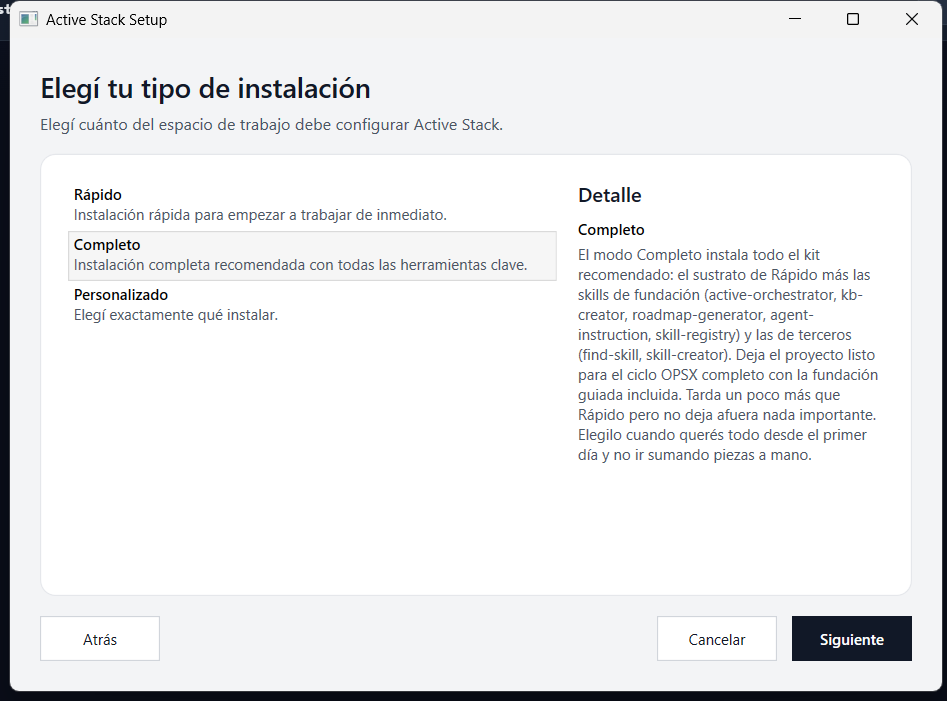
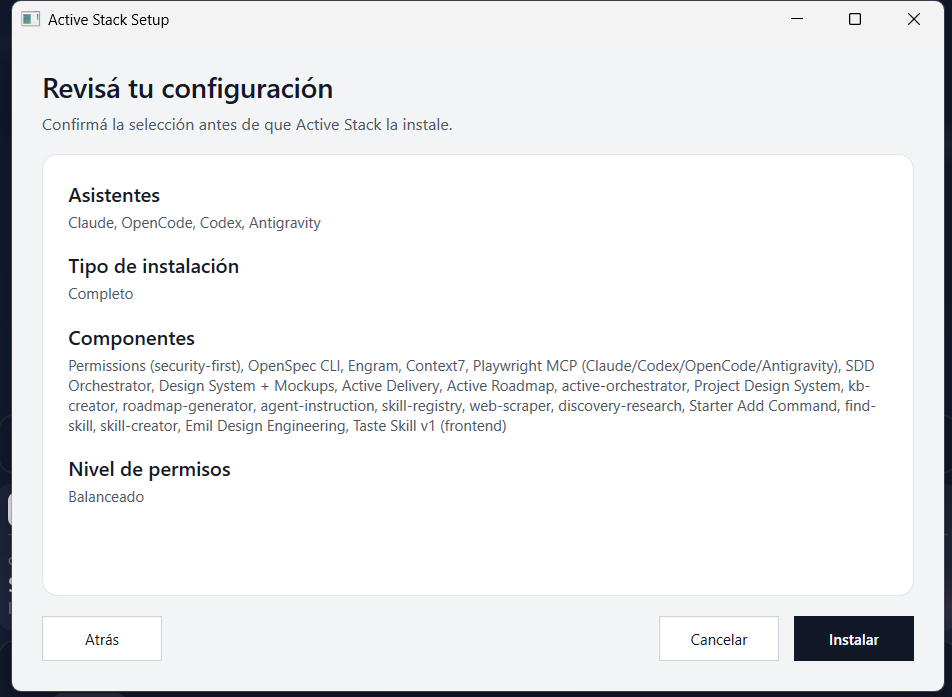
docs(etapa-0): captura de la configuración del instalador y entorno actualizado

diff --git a/evidencias/etapa-0/entorno-lider.md b/evidencias/etapa-0/entorno-lider.md
@@ -5,7 +5,7 @@ Relevado el 2026-11-21 con los comandos `--version` de cada herramienta y `~/.ac
 | Herramienta | Versión |
 |---|---|
 | Active Stack | v0.8.1 (compilado desde GitHub con `build.bat`) |
-| Modo de instalación | Full, agente Claude, permisos "balanceado" |
+| Modo de instalación | Full (Completo), permisos "balanceado", para Claude, Codex, OpenCode y Antigravity (reaplicado el 21/11 con el instalador gráfico v0.8.1) |
 | Claude Code | 2.1.310 |
 | OpenSpec | 2.1.1 (perfil `core`) |
 | Engram | 3.6.0 |
@@ -22,5 +22,5 @@ Lista completa de harnesses del modo Full: [harnesses-plan-full.txt](harnesses-p
 ## Capturas
 
 - `00-Creacion-Repo.png`: repositorio `Pinini777/turnos-odontologia` creado, público y vacío.
-- `00-Instalacion-Completo.png`: instalador gráfico de Active Stack con el modo **Completo** (Full) seleccionado.
+- `00-Instalacion-Completo.png`: instalador gráfico de Active Stack, pantalla "Revisá tu configuración" con el modo **Completo** (Full) y la lista de componentes (harnesses) a instalar.
 - `harnesses-plan-full.txt`: lista de harnesses del modo Full.
